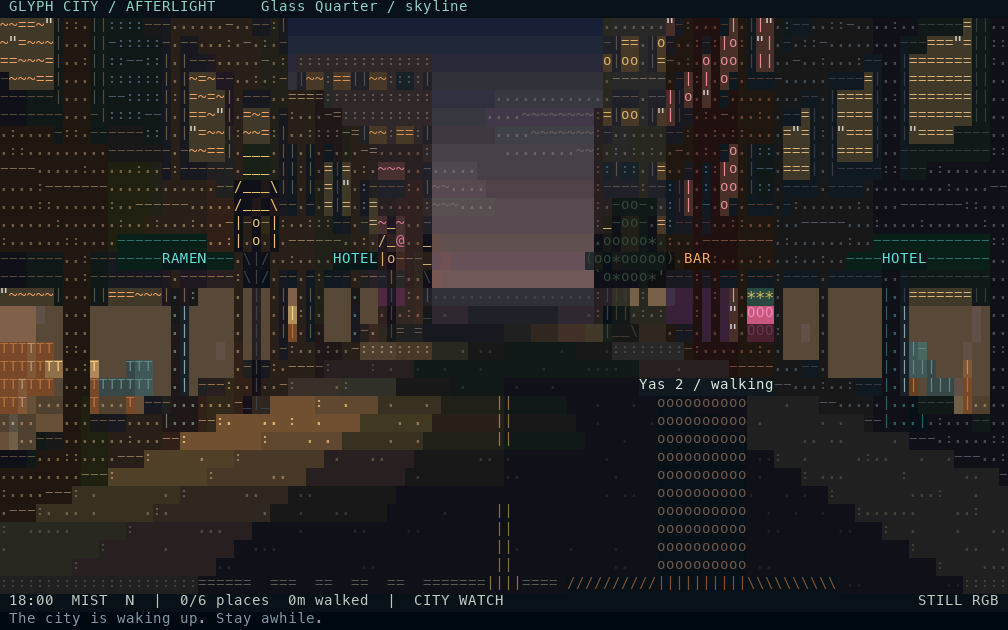
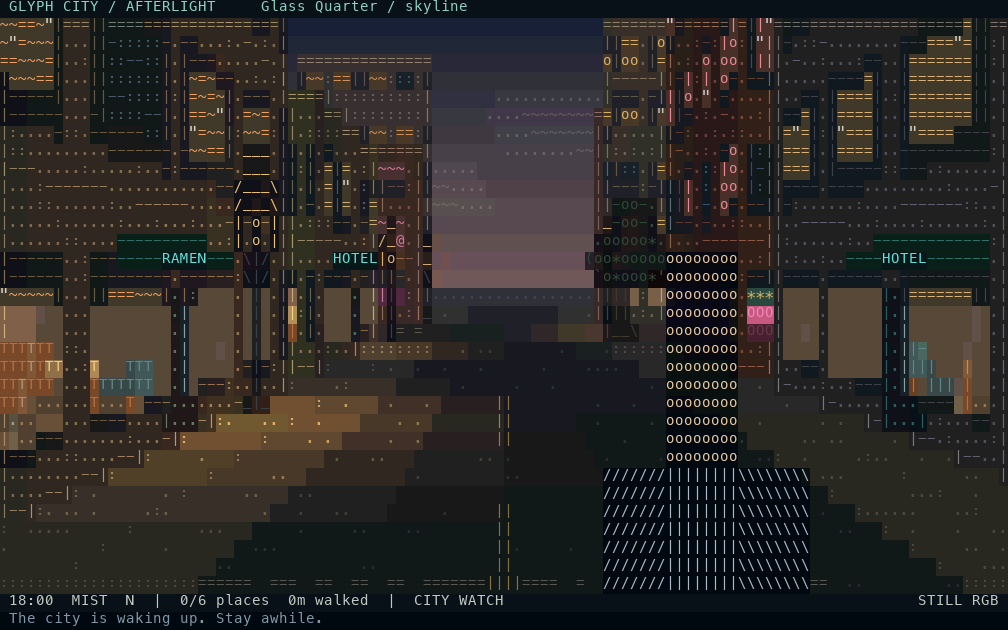
Add elevated shots and clarify city silhouettes

diff --git a/glyph_city/render.py b/glyph_city/render.py
@@ -118,9 +118,22 @@ ART = {
     'fountain': (('    .    ','  . | .  ',' . \\|/ . ','  \\ | /  ',' ~~~|~~~ ','(=======)',' \\_____/ '),2.8,2.3),
     'rail': (('___________','| | | | | |','|_|_|_|_|_|'),4,.9),
     'stall': (('  /=====\\  ',' /_/___\\_\\ ',' |       | ',' | [tea] | ',' |=======| '),2.6,2.2),
-    'person': ((' o ','/|\\',' | ','/ \\'),.65,1.7),
+    # People use a wider silhouette so they remain legible in rain and at
+    # terminal sizes where a one-column body disappears into facade texture.
+    'person': (('  o  ',' /|\\ ',' /|\\ ',' / \\ '),.86,2.05),
     'car': (('  _____  ',' /_____\\ ','|o_____o|',' |_| |_| '),1.8,1.35),
     'boat': (('     |     ','  ___|__   ',' /______\\  ',' \\______/  ',' ~~~~~~~~  '),3.5,1.5),
+}
+
+PERSON_COLORS = {
+    'barista': (245, 165, 105),
+    'gardener': (145, 218, 151),
+    'courier': (239, 193, 116),
+    'musician': (204, 151, 246),
+    'bookseller': (145, 194, 238),
+    'photographer': (239, 142, 187),
+    'commuter': (196, 205, 214),
+    'vendor': (245, 173, 104),
 }
 
 
@@ -272,12 +285,34 @@ class Renderer:
                                 alpha = world.wet*strength*(.15+.3*self.night)
                                 buf[rr][c] = cell('|' if (rr+c)%3 else ':',mix(oldfg,fg,alpha),mix(oldbg,fg,alpha*.45))
                                 reflection_depth[rr][c] = dist
+        self._building_edges()
         self._signs(ca,sa)
         for prop in sorted(city.props,key=lambda p: -((p.x-world.x)**2+(p.y-world.y)**2)):
             self._sprite(prop,ca,sa)
         self._weather()
         if minimap: self._minimap()
         return buf
+
+    def _building_edges(self):
+        """Add a restrained silhouette line where a projected wall ends.
+
+        Dense window glyphs can otherwise make two adjacent facades read as a
+        single noisy rectangle. Edges are drawn only on empty facade cells, so
+        glass interiors and signs retain their authored detail.
+        """
+        for r in range(self.rows):
+            for c in range(self.cols):
+                bid=self.surface[r][c]
+                if bid<0: continue
+                left=c==0 or self.surface[r][c-1]!=bid
+                right=c==self.cols-1 or self.surface[r][c+1]!=bid
+                top=r==0 or self.surface[r-1][c]!=bid
+                ch,fg,bg=self.buffer[r][c]
+                if not (left or right or top) or ch not in (' ','.',':','-'):
+                    continue
+                b=self.city.buildings[bid]
+                edge=mix(fg,(226,213,171),.34 if top else .22)
+                self.buffer[r][c]=cell('=' if top else '|',edge,bg)
 
     def render_interior(self, world):
         """Render the bounded cafe room without invoking the outdoor ray caster."""
@@ -329,7 +364,7 @@ class Renderer:
         tile = self.city.tiles[iy][ix]
         h = grain(int(x*9),int(y*9),self.city.seed)
         light = local_light(self.city.glow[iy][ix],night,w.lantern and dist<9)
-        bases = {'r':(46,55,64),'p':(98,97,91),'g':(40,82,62),'b':(111,94,75),'w':(29,74,92)}
+        bases = {'r':(58,68,78),'p':(108,106,99),'g':(45,91,68),'b':(119,103,82),'w':(34,84,103)}
         base = bases[tile]
         if tile=='w':
             ripple=math.sin(x*3+y*2+w.time*1.6)
@@ -394,11 +429,13 @@ class Renderer:
 
     def _facade(self, b, u, z, span, side, dist, hx=None, hy=None):
         day,night = self.day,self.night
-        shade=(.50+.60*day)*(1 if side else .86)
+        # Keep near wall edges above the night fog floor so building shapes
+        # read as planes instead of dissolving into the background.
+        shade=(.58+.64*day)*(1 if side else .90)
         shade*=shadow_band(b.x0+u,b.y0+z,b.seed)
         if self.world.lantern: shade+=max(0,1-dist/9)*.38
         base=mix(b.color,(224,153,101),self.sunset*.2)
-        fg,bg=scale(base,shade),scale(base,shade*(.30+.08*day))
+        fg,bg=scale(base,shade),scale(base,shade*(.36+.10*day))
         bay=u%1.65; story=int(z/2.8); level=z%2.8
         emits=False
         if b.height-z<.23:
@@ -501,15 +538,15 @@ class Renderer:
         if p.kind=='person':
             pose=int(self.world.time*3+p.phase)%2
             if p.umbrella:
-                art=(' .---. ','/_____\\','   o   ','  /|\\  ','  / \\  '); width=.95; height=2.05
+                art=(' .---. ','/_____\\','|  o  |','  /|\\  ','  / \\  '); width=1.08; height=2.2
             elif p.activity=='walking':
-                art=(' o ','/|\\',' | ','/ |' if pose else '| \\')
+                art=('  o  ',' /|\\ ',' /|  ' if pose else '  |\\ ',' / \\ ')
             elif p.activity in ('reading','sorting books'):
-                art=(' o ','[=]',' | ','/ \\')
+                art=('  o  ',' [=] ','  |  ',' / \\ ')
             elif p.activity=='playing music':
-                art=(' o ','/|D',' | ','/ \\')
+                art=('  o  ',' /|D ',' /|  ',' / \\ ')
             elif p.activity=='taking photos':
-                art=(' o ','[o]',' | ','/ \\')
+                art=('  o  ',' [o] ','  |  ',' / \\ ')
             elif p.activity=='tending flowers':
                 art=('   ',' o_','/|/','/ \\'); height=1.2
         aw=max(map(len,art)); ah=len(art)
@@ -531,16 +568,31 @@ class Renderer:
                 elif p.kind=='bench': color=(175,124,81)
                 elif p.kind=='rail': color=(111,135,148)
                 elif p.kind=='flowers': color=(230,139,163) if ar<2 else (150,125,103)
-                elif p.kind=='person' and ar==0: color=(219,179,145)
+                elif p.kind=='person':
+                    role_color=PERSON_COLORS.get(getattr(p,'role',''),p.color)
+                    if p.umbrella:
+                        # The canopy catches sky light; the body stays a
+                        # distinct role color beneath it.
+                        color=((245,250,255) if ar<2 else role_color)
+                    else:
+                        color=(255,214,175) if ar==0 else role_color
                 luminous=(p.kind=='lamp' and ar<3) or (p.kind=='car' and ch=='o')
-                factor=1 if luminous else .4+.6*self.day
-                color=mix(scale(color,factor),self.fog,min(.75,z/self.visibility)*.55)
+                if p.kind=='person' and p.umbrella and ar<2: luminous=True
+                factor=(1 if luminous else .94 if p.kind=='person'
+                        else .4+.6*self.day)
+                fog_amount=.20 if p.kind=='person' else .55
+                color=mix(scale(color,factor),self.fog,min(.75,z/self.visibility)*fog_amount)
                 bg=self.buffer[r][c][2]
-                self.buffer[r][c]=cell(ch,color,mix(bg,(10,17,25),.6))
+                self.buffer[r][c]=cell(ch,color,mix(bg,(6,12,20),.82 if p.kind=='person' else .6))
                 self.depth[r][c]=z
+        focus=getattr(getattr(self.world,'life',None),'focus',None)
+        # Keep the watch overlay readable: one active speaker plus only the
+        # closest silhouettes get labels. Distant names used to pile into a
+        # single line and hide the actual people underneath.
+        show_label=(p is focus)
         if (getattr(self.world,'show_names',False)
                 and not getattr(self.world,'camera_transition',False)
-                and getattr(p,'name','') and ph>=2):
+                and getattr(p,'name','') and ph>=2 and show_label):
             label=(p.name+' / '+p.activity)[:32] if z<12 else p.name[:12]
             label_y=max(0,min(self.rows-1,math.floor(top)-1))
             label_x=round(sx-len(label)/2)
@@ -548,7 +600,7 @@ class Renderer:
                 xx=label_x+index
                 if 0<=xx<self.cols and self.depth[label_y][xx]>=z-.1:
                     self.buffer[label_y][xx]=cell(char,(218,232,221),(17,29,34))
-            if p.dialogue and z<18 and label_y>0:
+            if p.dialogue and (p is focus or z<14) and label_y>0:
                 speech='"'+p.dialogue+'"'
                 speech=speech[:self.cols-2]
                 start=max(0,min(self.cols-len(speech),round(sx-len(speech)/2)))

diff --git a/glyph_city/director.py b/glyph_city/director.py
@@ -30,6 +30,15 @@ SHOTS = (
     Shot('Glass Quarter / skyline', (84,36), (84,34), (84,19), 2.0, 80, 85, .07),
     Shot('Copper Lane / warm windows', (24,36), (26,36), (28,29), 1.65, 70, 90, -.085),
     Shot('Moonwater / aboard the night boat', (30,91.5), (48,91.5), (63,85), 2.1, 72, 100, .105),
+    # Elevated eye lines make the skyline readable without putting the
+    # camera inside a building: the authored street corners act as rooftop
+    # overlooks and the higher eye reveals rooflines and lit upper floors.
+    Shot('Glass Quarter / rooftop corner', (84.5,36.5), (84.5,34.5), (72,48),
+         4.2, 62, 78, .12, -.045),
+    Shot('Lantern Market / awning overlook', (60.5,36.5), (63,36.5), (72,48),
+         3.4, 68, 82, -.105, -.035),
+    Shot('Moonwater / bridge overlook', (63.5,84.5), (62.5,84.5), (45,91.5),
+         3.1, 70, 88, .115, -.04),
 )
 
 

diff --git a/glyph_city/city.py b/glyph_city/city.py
@@ -153,7 +153,10 @@ class City:
                 self.props.extend((Prop(x,86.5,'rail'),Prop(x,96.5,'rail')))
         for x, y in ((57,57),(63,57),(57,63),(63,63)):
             self.props.append(Prop(x,y,'flowers'))
-        for _ in range(32):
+        # A slightly denser population gives the watch mode visible motion in
+        # more than one district while the living simulation still queues
+        # people on the shared walking network.
+        for _ in range(40):
             a = rng.choice(AVENUES)
             y = rng.uniform(5,SIZE-5)
             x = a + rng.choice((-3.3,3.3))

diff --git a/tools/make_previews.py b/tools/make_previews.py
@@ -63,7 +63,8 @@ def main():
     stills=(('night-rain',build_world(23,'rain'),5,16.0),
             ('day-market',build_world(13,'clear'),2,22.0),
             ('storm-canal',build_world(20,'storm'),3,28.0),
-            ('glass-quarter',build_world(18,'mist'),4,12.0))
+            ('glass-quarter',build_world(18,'mist'),4,12.0),
+            ('rooftop-corner',build_world(19,'clear'),7,24.0))
     for name,world,shot_index,elapsed in stills:
         image=cinematic(world,renderer,shot_index,elapsed)
         image.save(OUT/(name+'.png'),optimize=True)

diff --git a/tests/test_optional_systems.py b/tests/test_optional_systems.py
@@ -48,7 +48,7 @@ class OptionalSystemsChecks(unittest.TestCase):
         self.assertEqual((world.x,world.y),original)
         director.elapsed=director.shot.duration-.01; director.update(.1)
         self.assertEqual(director.index,1)
-        self.assertEqual(len(SHOTS),7)
+        self.assertGreaterEqual(len(SHOTS),10)
 
     def test_director_eases_into_a_live_npc_event(self):
         world=make_world(); life=LivingCity(world); world.life=life

diff --git a/README.md b/README.md
@@ -8,6 +8,7 @@ Glyph City: Afterlight is a living ASCII city that keeps running when nobody is 
 ![Day market](docs/media/day-market.png)
 ![Storm canal](docs/media/storm-canal.png)
 ![Glass Quarter in mist](docs/media/glass-quarter.png)
+![Rooftop corner](docs/media/rooftop-corner.png)
 
 The project is a terminal-first zero-player simulation with an optional first-person walk mode. It runs on macOS, Linux, and WSL terminals that support ANSI colors. A terminal around 120 columns by 40 rows gives the city enough room to breathe.
 
@@ -40,11 +41,11 @@ python3 main.py --max-width 120 --fps 24
 
 ## What is in the city
 
-- A deterministic 120 × 120 city with six districts and discoverable landmarks: Willow Gardens, Lantern Market, Copper Lane, Glass Quarter, Afterlight Crossing, and Moonwater Canal.
+- A deterministic 120 × 120 city with six districts, a denser population of named residents, and discoverable landmarks: Willow Gardens, Lantern Market, Copper Lane, Glass Quarter, Afterlight Crossing, and Moonwater Canal.
 - A variable-height ASCII ray caster with depth, fog, local lamp pools, wet pavement, water reflections, rain, clouds, stars, dusk colors, and storm flashes.
 - Ground-floor glass windows with furnished interiors: cafes, restaurants, bookshops, vinyl stores, hotels, bars, lounges, and mature 18+ venues represented through environmental silhouettes and lighting.
 - A day and night clock, clear/rain/storm/mist weather, gradual wetness, umbrella and shelter behavior, an automatic canal boat, a playable cafe room, a journal, a map, photo mode, and a persistent album.
-- City Watch, a zero-player mode with named residents, jobs, destinations, queues, shelters, conversations, staged public events, and cinematic camera shots that can follow an active NPC.
+- City Watch, a zero-player mode with named residents, jobs, destinations, queues, shelters, conversations, staged public events, and ten cinematic camera shots, including elevated Glass Quarter and bridge overlooks.
 - City Watch camera moves are collision-aware: manual and automatic shot changes use a slow curved transfer from the current pose, with bounded subject focus and no hard teleport between viewpoints.
 - Staged events such as parcel delivery, street music, shared umbrellas, and neighborhood blackouts. Every event has several beats and changes what the participants are doing.
 - A layered soundscape with long rain, wind, water, traffic, and leaves beds plus cached multi-variant footsteps, birds, music, doors, thunder, car passes, rain hits, and drips. The generated PCM bank lives in [`assets/audio`](assets/audio) and is reused at runtime without synthesizing SFX during gameplay.

diff --git a/docs/architecture.md b/docs/architecture.md
@@ -15,6 +15,14 @@ The old implementation remains under `legacy/v1/`. The main project does not imp
 shots through collision-checked city corridors. A shot change starts at the
 current pose, follows an eased route, and blends heading, lens, and height;
 NPC focus is distance-bounded and never teleports the camera through a facade.
+The shot library includes elevated eye lines at the Glass Quarter, Lantern
+Market, and Moonwater bridge so the city can be watched from roof-height
+corners as well as from the street.
+
+The renderer gives people a wider multi-cell silhouette, role colors, bright
+rain canopies, and stronger near-wall edge lines. City Watch labels only the
+active speaker, keeping names and dialogue legible instead of stacking text
+over distant buildings.
 
 `glyph_city/audio.py` loads the generated PCM bank from `assets/audio/` and
 cycles through three prebuilt variants for each short cue. Long ambience beds

diff --git a/docs/preview-gallery.md b/docs/preview-gallery.md
@@ -23,3 +23,7 @@ by the live game, so it can be inspected without opening a terminal.
 ## Glass Quarter in mist
 
 ![Glass Quarter in mist](media/glass-quarter.png)
+
+## Rooftop corner
+
+![Rooftop corner](media/rooftop-corner.png)
